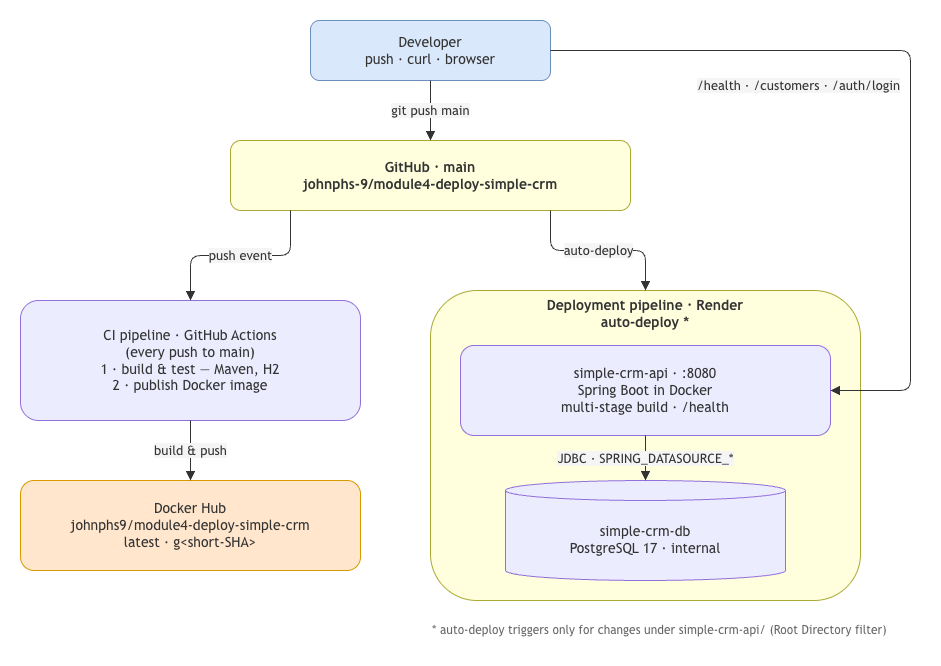
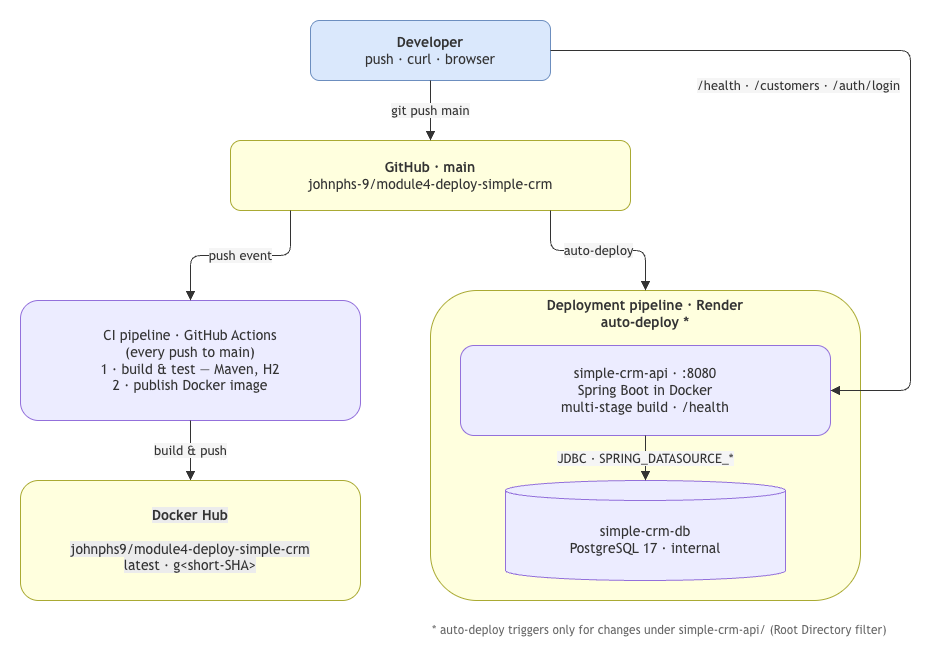
Image 1.0.4: completed Stretch Option 1: Add a CI Pipeline. Image version and documentation updated.

Changed region(s): [[0.0, 0.7207, 0.4006, 0.9009], [0.3082, 0.2703, 0.5855, 0.3003], [0.4315, 0.0601, 0.4931, 0.0901]]

diff --git a/README.md b/README.md
@@ -19,6 +19,8 @@ I completed Tasks 1–4 (_"Baseline"_) using my **Simple CRM API** (Stretch Opti
 
 **GitHub**: https://github.com/johnphs-9/module4-deploy-simple-crm
 
+### Simple CRM API architecture
+
 ![API Docker Deployed](docs/design/simple-crm-API-arch_S1.png)
 
 ---
